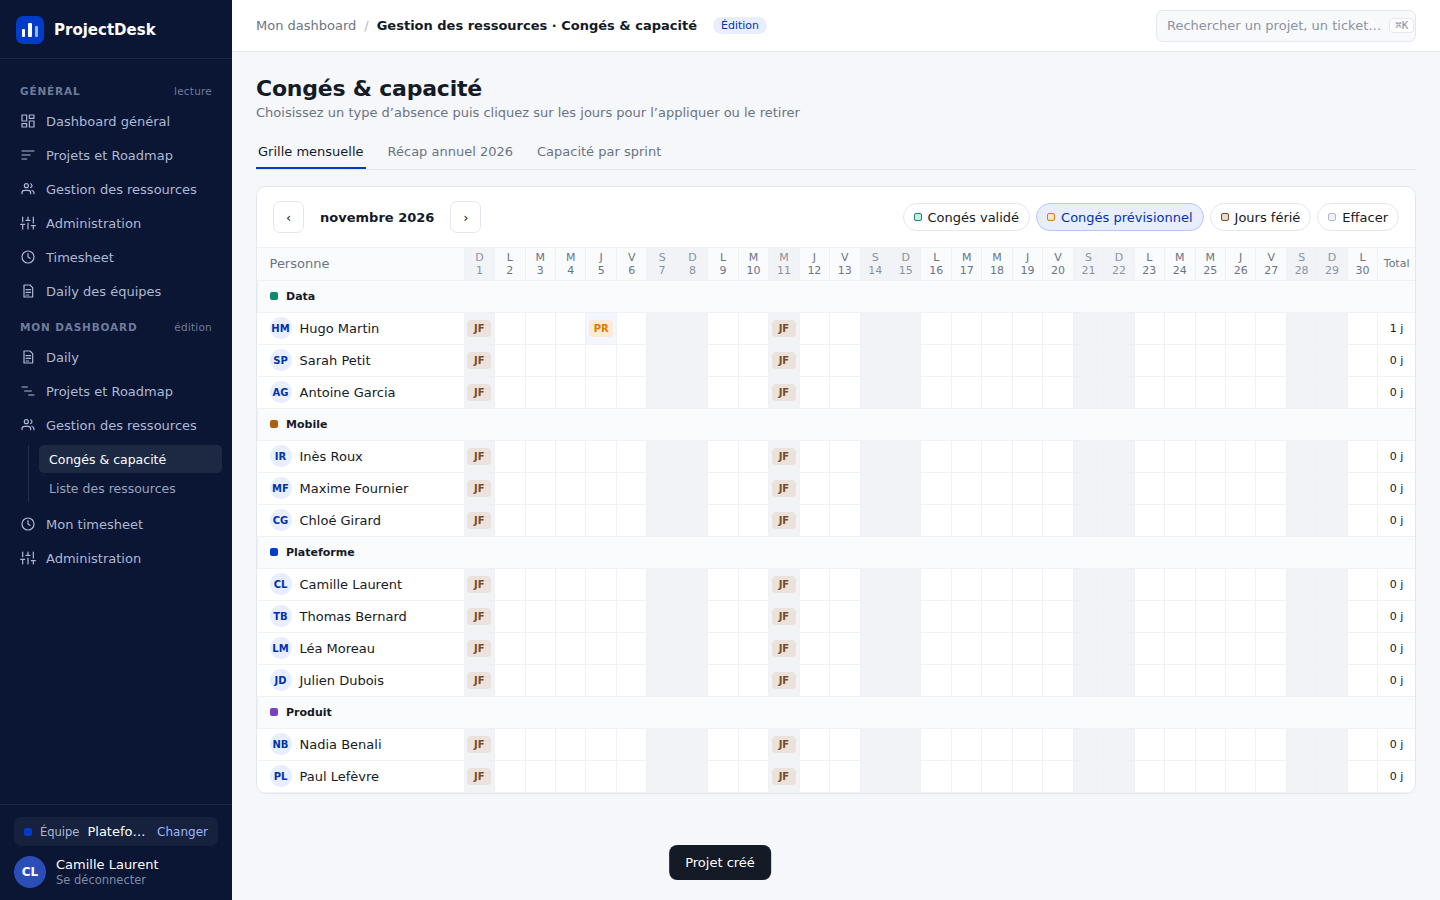
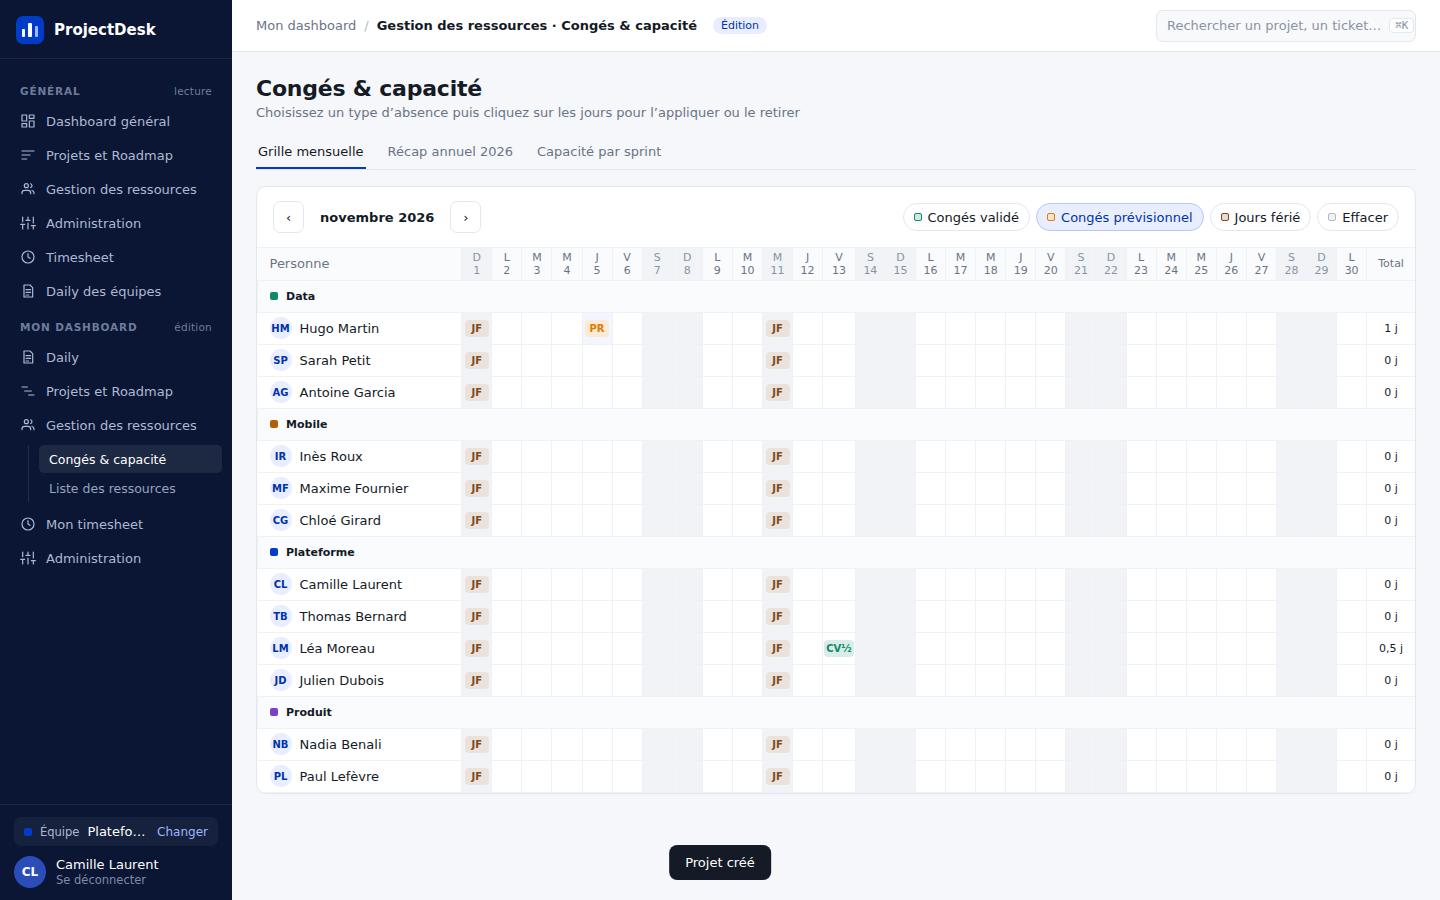
Absences à la demi-journée ; import du planning 2026
- Migration 009 : absences.duree (1 ou 0,5)
- Calculs : récap, solde CP, capacité et heures attendues comptent les
  demi-journées pour 0,5 ; calendrier « ½ », totaux avec virgule
- Données : import de l'onglet Planning de Calendrier_2026.xlsx
  (0 = Congés validé, 0,5 = demi-journée ; week-ends et fériés ignorés)
- DAT v1.24

Claude-Session: https://claude.ai/code/session_0187v8SY8uiT6dnWqjjqJYb6

diff --git a/app/js/calculs.js b/app/js/calculs.js
@@ -99,26 +99,30 @@ const Calculs = (() => {
   }
 
   /* ---------- Congés ---------- */
-  // absences : liste { ressourceId, jour, type } ; renvoie le décompte d'une personne sur une année
+  // Durée d'une absence en jours : 1 (journée) ou 0,5 (demi-journée, migration 009)
+  const dureeAbsence = a => Number(a.duree ?? 1);
+  const sommeDurees = liste => liste.reduce((s, a) => s + dureeAbsence(a), 0);
+
+  // absences : liste { ressourceId, jour, type, duree } ; décompte d'une personne sur une année (en jours)
   function recapConges(ressourceId, annee, absences, typesAbsence) {
     const siennes = absences.filter(a => a.ressourceId === ressourceId && a.jour.startsWith(String(annee)));
     const parType = {};
-    typesAbsence.forEach(t => { parType[t.libelle] = siennes.filter(a => a.type === t.libelle).length; });
+    typesAbsence.forEach(t => { parType[t.libelle] = sommeDurees(siennes.filter(a => a.type === t.libelle)); });
     const cpPris = parType[ABSENCES.CP] || 0;
-    return { parType, total: siennes.length, cpPris, soldeCp: CONFIG.DROIT_CP_ANNUEL - cpPris };
+    return { parType, total: sommeDurees(siennes), cpPris, soldeCp: CONFIG.DROIT_CP_ANNUEL - cpPris };
   }
 
   // Capacité d'une liste de personnes sur une période, en jours-homme.
-  // théorique = Σ jours ouvrés × capacité ; disponible = idem, moins les jours d'absence.
+  // théorique = Σ jours ouvrés × capacité ; disponible = idem, moins les absences (demi-journée = 0,5).
   function capacitePeriode(ressources, debut, fin, absences, feries) {
     let theorique = 0, disponible = 0;
-    const absent = new Set(absences.map(a => a.ressourceId + '|' + a.jour));
+    const absent = new Map(absences.map(a => [a.ressourceId + '|' + a.jour, dureeAbsence(a)]));
     for (let jour = debut; jour <= fin; jour = ajouterJours(jour, 1)) {
       if (!estJourOuvre(jour, feries)) continue;
       ressources.forEach(r => {
         const part = (r.capacite ?? 100) / 100;
         theorique += part;
-        if (!absent.has(r.id + '|' + jour)) disponible += part;
+        disponible += part * (1 - (absent.get(r.id + '|' + jour) || 0));
       });
     }
     return { theorique, disponible };
@@ -133,11 +137,12 @@ const Calculs = (() => {
     return { jours, parJour, total: parJour.reduce((a, b) => a + b, 0) };
   }
 
-  // Heures attendues d'une personne sur une semaine (jours ouvrés non absents × capacité)
+  // Heures attendues d'une personne sur une semaine (jours ouvrés, moins les absences, × capacité)
   function heuresAttendues(ressource, lundiIso, absences, feries) {
-    const absent = new Set(absences.filter(a => a.ressourceId === ressource.id).map(a => a.jour));
-    const jours = joursOuvresSemaine(lundiIso).filter(j => estJourOuvre(j, feries) && !absent.has(j));
-    return jours.length * CONFIG.HEURES_PAR_JOUR * (ressource.capacite ?? 100) / 100;
+    const absent = new Map(absences.filter(a => a.ressourceId === ressource.id).map(a => [a.jour, dureeAbsence(a)]));
+    const jours = joursOuvresSemaine(lundiIso).filter(j => estJourOuvre(j, feries))
+      .reduce((s, j) => s + 1 - (absent.get(j) || 0), 0);
+    return jours * CONFIG.HEURES_PAR_JOUR * (ressource.capacite ?? 100) / 100;
   }
 
   // Taux d'occupation = heures saisies / heures attendues (en %)

diff --git a/app/js/ecrans/ressources.js b/app/js/ecrans/ressources.js
@@ -25,7 +25,7 @@ const Calendrier = {
     const esc = C.esc, { annee, mois } = this.moisCourant();
     const jours = Calculs.joursDuMois(annee, mois), fer = feries(), aujourd = Calculs.aujourdhui();
     const types = valeursDe('abs', true);
-    const absence = {}; etat.d.absences.forEach(a => { absence[a.ressourceId + '|' + a.jour] = a.type; });
+    const absence = {}; etat.d.absences.forEach(a => { absence[a.ressourceId + '|' + a.jour] = a; });
 
     const entete = jours.map(j => {
       const ferme = !Calculs.estJourOuvre(j, fer), d = Calculs.depuisIso(j);
@@ -49,12 +49,13 @@ const Calendrier = {
           const cases = jours.map(j => {
             const ferme = !Calculs.estJourOuvre(j, fer);
             if (ferme) return `<td class="ferme">${fer.has(j) ? caseFeriee(j) : ''}</td>`;
-            const type = absence[r.id + '|' + j], t = types.find(x => x.libelle === type);
-            if (t) nb++;
-            const contenu = t ? `<span class="case-absence" style="color:${t.couleur};background:${C.teinte(t.couleur, .16)}">${esc(t.abrege || t.libelle.slice(0, 2))}</span>` : '';
+            // Absence du jour ; demi-journée (duree 0,5) marquée « ½ » et comptée 0,5
+            const a = absence[r.id + '|' + j], t = a && types.find(x => x.libelle === a.type), demi = a && Number(a.duree) === 0.5;
+            if (t) nb += demi ? 0.5 : 1;
+            const contenu = t ? `<span class="case-absence" title="${esc(t.libelle)}${demi ? ' (demi-journée)' : ''}" style="color:${t.couleur};background:${C.teinte(t.couleur, .16)}">${esc(t.abrege || t.libelle.slice(0, 2))}${demi ? '½' : ''}</span>` : '';
             return editable ? `<td class="cliquable" data-action="basculerAbsence" data-ressource="${r.id}" data-jour="${j}">${contenu}</td>` : `<td>${contenu}</td>`;
           }).join('');
-          return `<tr><td class="nom"><span class="ligne-flex">${C.avatar(r.nom)}${esc(r.nom)}</span></td>${cases}${editable ? `<td class="num" style="padding:0 10px">${nb} j</td>` : ''}</tr>`;
+          return `<tr><td class="nom"><span class="ligne-flex">${C.avatar(r.nom)}${esc(r.nom)}</span></td>${cases}${editable ? `<td class="num" style="padding:0 10px">${Calculs.nombre(nb)} j</td>` : ''}</tr>`;
         }).join('');
     }).join('');
 

diff --git a/app/js/ecrans/conges.js b/app/js/ecrans/conges.js
@@ -29,9 +29,9 @@ Ecrans.conges = {
     const recap = personnes.map(r => {
       const rc = Calculs.recapConges(r.id, annee, etat.d.absences, types);
       return `<tr><td><span class="ligne-flex">${C.pastille(equipe(r.equipeId).couleur)}${esc(r.nom)}</span></td>
-        <td><span class="ligne-flex"><span style="width:60px">${C.barre(rc.cpPris / CONFIG.DROIT_CP_ANNUEL * 100, '#003CC8', 'fine')}</span>${rc.cpPris}</span></td>
-        ${types.filter(t => t.libelle !== ABSENCES.CP).map(t => `<td class="num">${rc.parType[t.libelle] || 0}</td>`).join('')}
-        <td class="num"><b>${rc.total}</b></td><td class="num"><b>${rc.soldeCp}</b></td></tr>`;
+        <td><span class="ligne-flex"><span style="width:60px">${C.barre(rc.cpPris / CONFIG.DROIT_CP_ANNUEL * 100, '#003CC8', 'fine')}</span>${Calculs.nombre(rc.cpPris)}</span></td>
+        ${types.filter(t => t.libelle !== ABSENCES.CP).map(t => `<td class="num">${Calculs.nombre(rc.parType[t.libelle] || 0)}</td>`).join('')}
+        <td class="num"><b>${Calculs.nombre(rc.total)}</b></td><td class="num"><b>${Calculs.nombre(rc.soldeCp)}</b></td></tr>`;
     }).join('');
 
     // Capacité par sprint et par équipe
@@ -82,12 +82,13 @@ Object.assign(Actions, {
   // Clic sur un jour : applique le type choisi, ou retire l'absence si c'est le même type (ou « Effacer »)
   basculerAbsence(d) {
     const pinceau = Ecrans.conges.pinceau();
+    // (un clic pose toujours une journée entière ; les demi-journées viennent de l'import du planning)
     const existante = etat.d.absences.find(a => a.ressourceId === d.ressource && a.jour === d.jour);
     const filtre = { ressource_id: 'eq.' + d.ressource, jour: 'eq.' + d.jour };
     if (pinceau === 'effacer' || (existante && existante.type === pinceau)) {
       if (existante) executer(() => Api.supprimer('absences', filtre), 'absences');
     } else {
-      executer(() => Api.creer('absences', { ressourceId: d.ressource, jour: d.jour, type: pinceau }, 'ressource_id,jour'), 'absences');
+      executer(() => Api.creer('absences', { ressourceId: d.ressource, jour: d.jour, type: pinceau, duree: 1 }, 'ressource_id,jour'), 'absences');
     }
   }
 });

diff --git a/tests/parcours.js b/tests/parcours.js
@@ -165,6 +165,12 @@ const verifier = (nom, condition, detail = '') => { resultats.push({ nom, ok: !!
     verifier('Congés : onglet Capacité par sprint', (await texte()).includes('jours-homme') && !(await texte()).includes('Solde'));
     await page.click('[data-action="ongletConges"][data-id="grille"]');
     verifier('Congés : jours fériés affichés par défaut avec le type « Jours férié »', !!(await page.$('td.ferme .case-absence[title="Armistice"], td.ferme .case-absence')) && (await page.textContent('td.ferme .case-absence')).includes('JF'));
+    verifier('Congés : demi-journée affichée « ½ »', (await page.textContent('tr:has-text("Léa Moreau")')).includes('½'));
+    verifier('Calculs : demi-journée comptée 0,5', await page.evaluate(() => {
+      const lea = etat.d.ressources.find(r => r.nom === 'Léa Moreau');
+      return Calculs.recapConges(lea.id, 2026, [{ ressourceId: lea.id, jour: '2026-11-13', type: ABSENCES.CP, duree: 0.5 }], valeursDe('abs', true)).cpPris === 0.5
+        && Calculs.heuresAttendues(lea, '2026-11-09', [{ ressourceId: lea.id, jour: '2026-11-13', duree: 0.5 }], new Set(['2026-11-11'])) === 3.5 * CONFIG.HEURES_PAR_JOUR * (lea.capacite ?? 100) / 100;
+    }));
     verifier('Congés : absence posée', (await page.$$('td[data-action="basculerAbsence"] .case-absence')).length > 0);
 
     await aller('listeRessources');

diff --git a/tests/serveur-simule.js b/tests/serveur-simule.js
@@ -107,7 +107,8 @@ function amorcer() {
     ['lm', '2026-10-09', 'Congés validé'], ['hm', '2026-10-16', 'Congés prévisionnel'], ['sp', '2026-10-05', 'Congés validé'], ['sp', '2026-10-06', 'Congés validé'], ['ir', '2026-10-14', 'Congés validé'],
     ['ir', '2026-10-22', 'Congés prévisionnel'], ['cg', '2026-10-20', 'Congés prévisionnel'], ['nb', '2026-10-12', 'Congés prévisionnel'], ['nb', '2026-10-13', 'Congés prévisionnel'], ['nb', '2026-10-14', 'Congés prévisionnel'], ['nb', '2026-10-15', 'Congés prévisionnel'],
     ['pl', '2026-10-23', 'Congés prévisionnel'], ['tb', '2026-09-23', 'Congés prévisionnel'], ['cl', '2026-09-24', 'Congés prévisionnel'], ['cl', '2026-03-10', 'Congés validé'], ['cl', '2026-08-10', 'Congés validé']];
-  bd.absences = ABS.map(([p, jour, type]) => ({ ressource_id: idP[p], jour, type }));
+  bd.absences = ABS.map(([p, jour, type]) => ({ ressource_id: idP[p], jour, type, duree: 1 }));
+  bd.absences.push({ ressource_id: idP.lm, jour: '2026-11-13', type: 'Congés validé', duree: 0.5 });   // demi-journée (migration 009)
   bd.temps_saisis = []; bd.feuilles_temps = [];
   const jours = ['2026-09-21', '2026-09-22', '2026-09-23', '2026-09-24', '2026-09-25'];
   bd.ressources.forEach((r, i) => {

diff --git a/docs/DAT.md b/docs/DAT.md
@@ -36,6 +36,7 @@
 | 1.21    | 2026-09-25 | Calendriers (Congés & capacité, Général › Gestion des ressources) : sélecteur de mois déplacé juste au-dessus du calendrier, à gauche (§ 3.2, § 3.3) |
 | 1.22    | 2026-09-25 | Jours fériés affichés par défaut dans les calendriers avec le type « Jours férié » (clé `ferie`, migration 008) (§ 4) |
 | 1.23    | 2026-09-25 | Mon dashboard › Administration : onglet **Jours fériés** (administrateurs) pour gérer la table `jours_feries` (§ 3.3) |
+| 1.24    | 2026-09-25 | Absences à la demi-journée (`absences.duree`, migration 009) : récap, solde, capacité et heures attendues comptent 0,5 ; calendrier « ½ ». Import de l'onglet Planning de `Calendrier_2026.xlsx` (117 absences « Congés validé », 2 fiches créées) (§ 4, § 6) |
 
 ---
 
@@ -153,7 +154,7 @@ validées : `docs/maquettes/pilotage-projet/complements/`) :
 - dans la fenêtre d'affectation, lien **« + Nouveau membre »** : crée la fiche dans l'équipe du
   projet puis revient à l'affectation, personne sélectionnée et projet coché.
 
-## 4. Modèle de données (migrations `002_pilotage_projet.sql`, `003_lecture_administrateurs.sql`, `004_daily_equipes.sql`, `005_directions_postes_contrats.sql`, `006_direction_espace_travail.sql`, `007_valeurs_systeme_renommables.sql`, `008_type_jour_ferie.sql`)
+## 4. Modèle de données (migrations `002_pilotage_projet.sql`, `003_lecture_administrateurs.sql`, `004_daily_equipes.sql`, `005_directions_postes_contrats.sql`, `006_direction_espace_travail.sql`, `007_valeurs_systeme_renommables.sql`, `008_type_jour_ferie.sql`, `009_demi_journees.sql`)
 
 Colonnes en snake_case ; l'application les manipule en camelCase (conversion dans `api.js`).
 Toutes les tables métier ont `modifie_par` / `modifie_le` (trigger `tracer_modification()`).
@@ -172,7 +173,7 @@ Toutes les tables métier ont `modifie_par` / `modifie_le` (trigger `tracer_modi
 | `projets` | `code` (unique), `nom`, `equipe_id`, `resultat_cle_id`, `chef_id`, `debut`, `fin`, `statut`, `avancement` | → `equipes`, `resultats_cles`, `ressources` |
 | `affectations` | `projet_id`, `ressource_id`, `role` (Chef de projet / Membre / Lecteur) | unique (projet, ressource) |
 | `tickets` | `projet_id`, `numero` (ex. PF-14.3), `titre`, `statut`, `priorite`, `assigne_id` | → `projets` |
-| `absences` | `ressource_id`, `jour`, `type` | clé (ressource, jour) |
+| `absences` | `ressource_id`, `jour`, `type`, `duree` (1 = journée, 0,5 = demi-journée ; migration 009) | clé (ressource, jour) |
 | `temps_saisis` | `ressource_id`, `projet_id`, `jour`, `heures` | unique (ressource, projet, jour) |
 | `feuilles_temps` | `ressource_id`, `semaine` (lundi), `statut` (en_saisie / soumise / validee / a_completer), `commentaire` | clé (ressource, semaine) |
 | `notes_daily` | `user_id`, `jour`, `texte` | clé (user, jour) |
@@ -248,10 +249,10 @@ refusée sur `referentiels`, `administrateurs` et `demandes` (usurpation).
 | À surveiller = « À risque », « En retard » ou échéance ≤ `ALERTE_ECHEANCE_JOURS` | `Calculs.projetsASurveiller` |
 | Progression d'un objectif = moyenne de ses résultats clés | `Calculs.progressionObjectif` |
 | Atteinte trimestrielle d'une équipe = moyenne des objectifs du trimestre | `Calculs.atteinteTrimestre` |
-| Récap congés : jours par type, solde CP = `DROIT_CP_ANNUEL` − CP pris | `Calculs.recapConges` |
-| Capacité (j-h) : Σ jours ouvrés × capacité, disponible = hors absences | `Calculs.capacitePeriode` |
+| Récap congés : jours par type (demi-journée = 0,5), solde CP = `DROIT_CP_ANNUEL` − CP pris | `Calculs.recapConges` |
+| Capacité (j-h) : Σ jours ouvrés × capacité, disponible = hors absences (demi-journée = 0,5) | `Calculs.capacitePeriode` |
 | Sprints de 14 jours numérotés depuis `SPRINT_REFERENCE` (fin = vendredi de la 2e semaine) | `Calculs.sprintDe`, `Calculs.sprintsAutour` |
-| Heures attendues = jours ouvrés non absents × `HEURES_PAR_JOUR` × capacité | `Calculs.heuresAttendues` |
+| Heures attendues = (jours ouvrés − absences, demi-journée = 0,5) × `HEURES_PAR_JOUR` × capacité | `Calculs.heuresAttendues` |
 | Taux d'occupation = heures saisies / heures attendues (semaine courante) | `Calculs.tauxOccupation` |
 | Code projet suivant = PREFIXE-(max + 1) | `Calculs.prochainCodeProjet` |
 | Jours ouvrés : hors week-ends et `jours_feries` | `Calculs.estJourOuvre` |
@@ -315,7 +316,7 @@ refusée sur `referentiels`, `administrateurs` et `demandes` (usurpation).
 | Outil | Contenu |
 |-------|---------|
 | `tests/serveur-simule.js` | Neon Auth (dont Google simulé) + Data API simulés en mémoire, données de la maquette (comptes `camille@test.fr` administratrice/owner, `thomas@test.fr` membre, `elodie@test.fr` demandeuse, `admin@test.fr` administratrice sans équipe ; mot de passe `motdepasse`) |
-| `tests/parcours.js` | Parcours Playwright de bout en bout (48 contrôles, dont « Général en lecture seule », l'aller-retour Google simulé, le parcours administrateur sans équipe le daily des équipes et le board des ressources) + captures `docs/maquettes/etat-actuel/` |
+| `tests/parcours.js` | Parcours Playwright de bout en bout (50 contrôles, dont « Général en lecture seule », l'aller-retour Google simulé, le parcours administrateur sans équipe le daily des équipes et le board des ressources) + captures `docs/maquettes/etat-actuel/` |
 | `scripts/verifier-docs.js` | Cohérence documentation ↔ code après chaque commit (§ 11) |
 
 Les règles RLS ne sont pas simulées : elles sont vérifiées en base et lors de la recette réelle.
